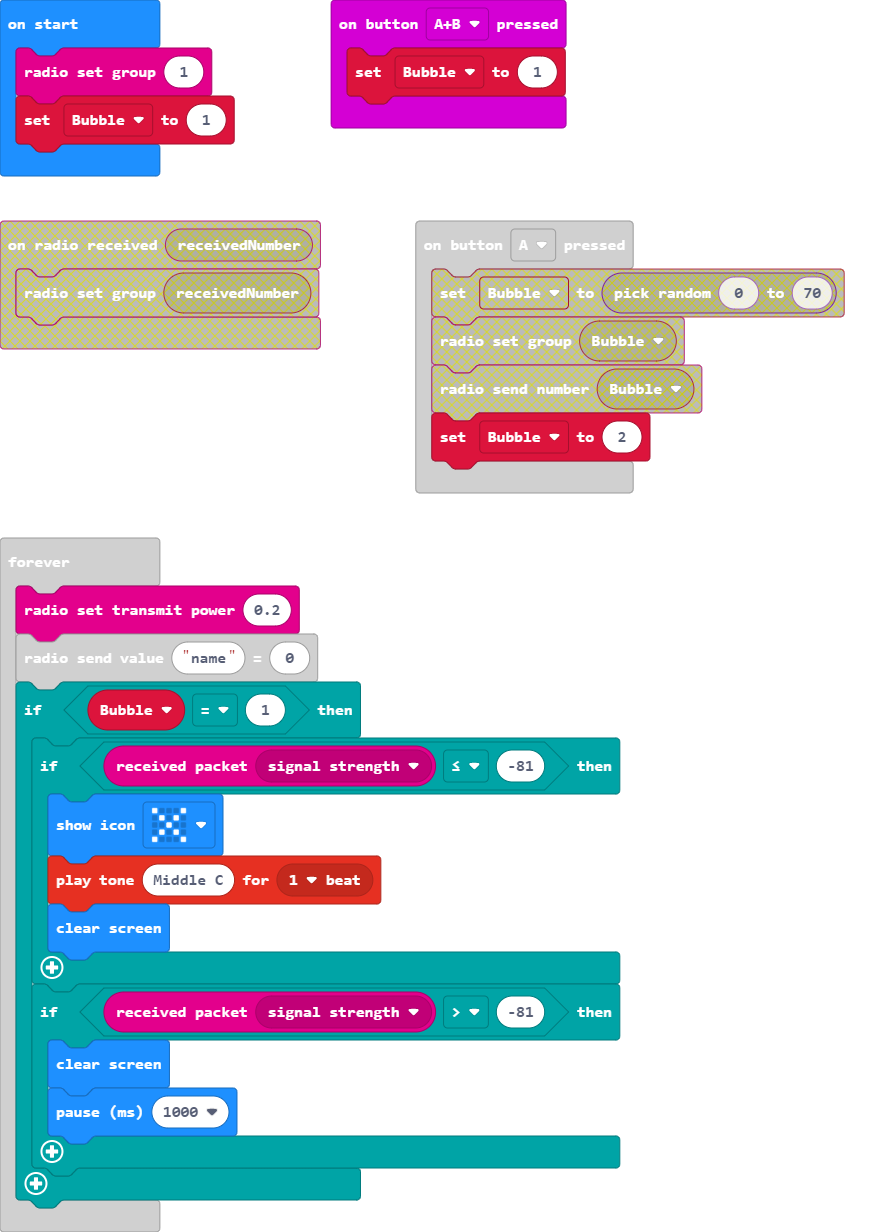
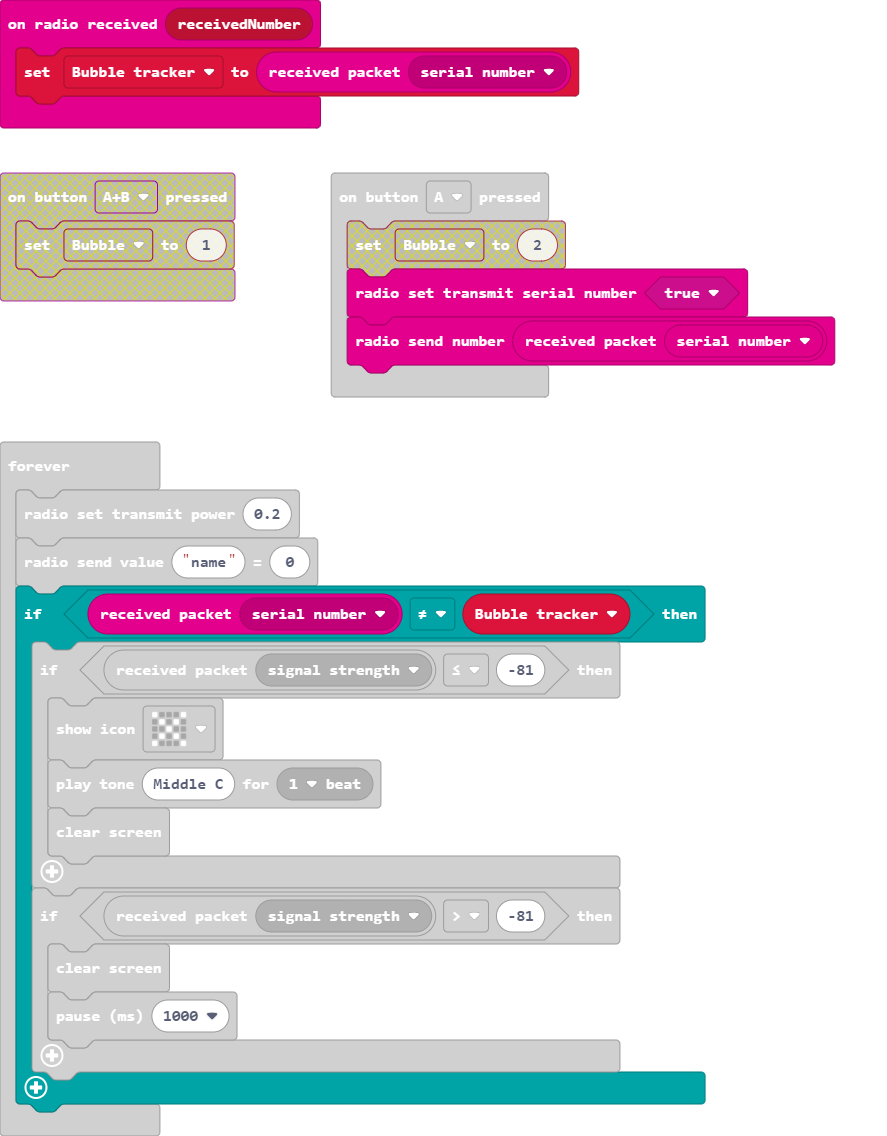
Update main.blocks, main.ts

diff --git a/main.ts b/main.ts
@@ -1,8 +1,9 @@
-input.onButtonPressed(Button.A, function () {
-    Bubble = 2
+radio.onReceivedNumber(function (receivedNumber) {
+    Bubble_tracker = radio.receivedPacket(RadioPacketProperty.SerialNumber)
 })
-input.onButtonPressed(Button.AB, function () {
-    Bubble = 1
+input.onButtonPressed(Button.A, function () {
+    radio.setTransmitSerialNumber(true)
+    radio.sendNumber(radio.receivedPacket(RadioPacketProperty.SerialNumber))
 })
 input.onButtonPressed(Button.B, function () {
     basic.clearScreen()
@@ -20,9 +21,9 @@ radio.onReceivedValue(function (name, value) {
 	
 })
 let Message = 0
-let Bubble = 0
+let Bubble_tracker = 0
 radio.setGroup(1)
-Bubble = 1
+let Bubble = 1
 basic.forever(function () {
     Message = 0
     basic.pause(300000)
@@ -41,7 +42,7 @@ basic.forever(function () {
 basic.forever(function () {
     radio.setTransmitPower(0.2)
     radio.sendValue("name", 0)
-    if (Bubble == 1) {
+    if (radio.receivedPacket(RadioPacketProperty.SerialNumber) != Bubble_tracker) {
         if (radio.receivedPacket(RadioPacketProperty.SignalStrength) <= -81) {
             basic.showIcon(IconNames.No)
             music.playTone(262, music.beat(BeatFraction.Whole))
